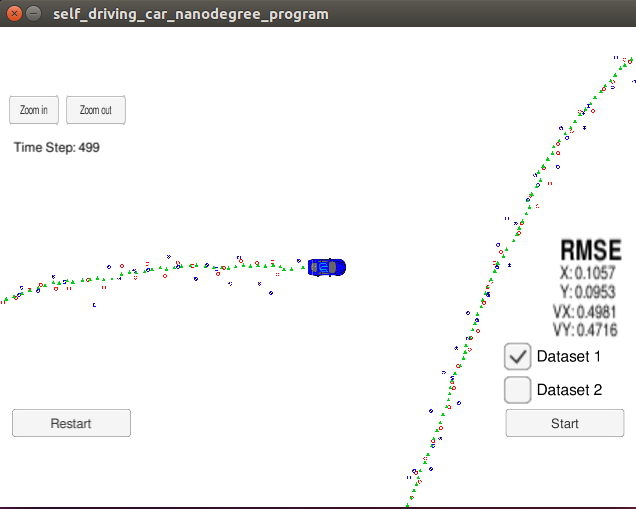
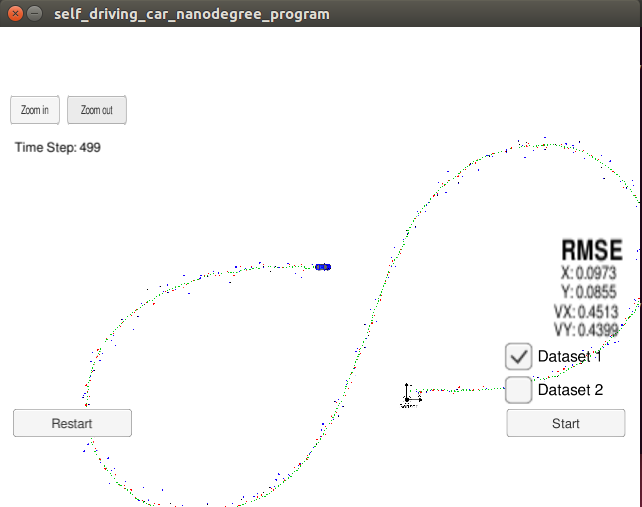
second commit

diff --git a/src/kalman_filter.cpp b/src/kalman_filter.cpp
@@ -1,4 +1,5 @@
 #include "kalman_filter.h"
+#define PI 3.1415926
 
 using Eigen::MatrixXd;
 using Eigen::VectorXd;
@@ -20,66 +21,6 @@ void KalmanFilter::Init(VectorXd &x_in, MatrixXd &P_in, MatrixXd &F_in,
   Q_ = Q_in;
 }
 
-
-
-
-/**
-* Convert radar from polar to cartesian coordinates.
-*/
-VectorXd KalmanFilter::ConvertPolarToCartesian(const VectorXd& polarvalue){
-
-  VectorXd cartesian(4);
-
-  float polar_rho = polarvalue(0);
-  float polar_phi = polarvalue(1) * 180.0 /3.1415;
-  float polar_rhodot = polarvalue(2);
-  
-  float px = polar_rho * cos(polar_phi);
-  float py = polar_rho * sin(polar_phi);
-  float vx = polar_rhodot * cos(polar_phi);
-  float vy = polar_rhodot * sin(polar_phi);
-
-  cartesian << px, py, vx, vy;
-
-  return cartesian;
-
-
-}
-
-
-/**
-* Convert radar from cartesian to polar coordinates.
-*/
-VectorXd KalmanFilter::ConvertCartesianToPolar(const VectorXd& cartesianvalue){
-
-  VectorXd polar(3);
-  //polar = VectorXd(3);
-
-  polar << 0.0, 0.0, 0.0;
-
-  float px = cartesianvalue(0);
-  float py = cartesianvalue(1);
-  float vx = cartesianvalue(2);
-  float vy = cartesianvalue(3);
-
-  float polar_rho = sqrt(px * px + py * py);
-  float polar_phi = 0.0;
-  float polar_rhodot = 0.0;
-
-  if ((polar_rho != 0) && (px != 0)) {
-
-    polar_phi = atan2(py, px);
-    polar_rhodot = (px * vx + py * vy) / polar_rho;
-
-    polar << polar_rho, polar_phi, polar_rhodot;
-
-  }
-
-  return polar;
-}
-
-
-
 void KalmanFilter::Predict() {
   /**
   TODO:
@@ -98,9 +39,9 @@ void KalmanFilter::Update(const VectorXd &z) {
   VectorXd z_pred = H_ * x_;
   VectorXd y = z - z_pred;
   MatrixXd Ht = H_.transpose();
-  MatrixXd S = H_ * P_ * Ht + R_;
-  MatrixXd Si = S.inverse();
   MatrixXd PHt = P_ * Ht;
+  MatrixXd S = H_ * PHt + R_;
+  MatrixXd Si = S.inverse();
   MatrixXd K = PHt * Si;
 
   //new estimate
@@ -115,20 +56,43 @@ void KalmanFilter::UpdateEKF(const VectorXd &z) {
   TODO:
     * update the state by using Extended Kalman Filter equations
   */
-  if ((abs(x_[0]) > 0.8) && (abs(x_[1]) > 0.8)) {
 
-    VectorXd z_pred = KalmanFilter::ConvertCartesianToPolar(x_);
-    VectorXd y = z - z_pred;
-    MatrixXd Ht = H_.transpose();
-    MatrixXd S = H_ * P_ * Ht + R_;
-    MatrixXd Si = S.inverse();
-    MatrixXd PHt = P_ * Ht;
-    MatrixXd K = PHt * Si;
+  float px = x_(0);
+  float py = x_(1);
+  float vx = x_(2);
+  float vy = x_(3);
+    
+  VectorXd z_pred = VectorXd(3);
+  z_pred(0) = sqrt(px * px + py * py);
 
-    //new estimate
-    x_ = x_ + (K * y);
-    long x_size = x_.size();
-    MatrixXd I = MatrixXd::Identity(x_size, x_size);
-    P_ = (I - K * H_) * P_;
+  if ((z_pred(0) != 0) && (px != 0)) {
+
+    z_pred(1) = atan(py / px);
+    z_pred(2) = (px * vx + py * vy) / z_pred(0);
+
+    while(z_pred(1) - z(1) > PI/2){
+      z_pred(1) = z_pred(1) - PI;
+    }
+     
+    while(z(1) - z_pred(1) >  PI/2){
+        z_pred(1) = z_pred(1) + PI;
+    }
+
+
+  }else{
+    return;
   }
+
+  VectorXd y = z - z_pred;
+  MatrixXd Ht = H_.transpose();
+  MatrixXd PHt = P_ * Ht;
+  MatrixXd S = H_ * PHt + R_;
+  MatrixXd Si = S.inverse();
+  MatrixXd K = PHt * Si;
+
+  //new estimate
+  x_ = x_ + (K * y);
+  long x_size = x_.size();
+  MatrixXd I = MatrixXd::Identity(x_size, x_size);
+  P_ = (I - K * H_) * P_;
 }

diff --git a/src/FusionEKF.cpp b/src/FusionEKF.cpp
@@ -2,6 +2,7 @@
 #include "tools.h"
 #include "Eigen/Dense"
 #include <iostream>
+#define PI 3.1415926
 
 using namespace std;
 using Eigen::MatrixXd;
@@ -46,7 +47,7 @@ FusionEKF::FusionEKF() {
            0, 0, 0, 0;
 
   noise_ax = 9;
-  noise_ay = 5;
+  noise_ay = 9;
 
 
 }
@@ -98,7 +99,19 @@ void FusionEKF::ProcessMeasurement(const MeasurementPackage &measurement_pack) {
       /**
       Convert radar from polar to cartesian coordinates and initialize state.
       */
-      ekf_.x_ = ekf_.ConvertPolarToCartesian(measurement_pack.raw_measurements_);
+
+      float ro = measurement_pack.raw_measurements_(0);
+      float theta = measurement_pack.raw_measurements_(1) * 180.0 / PI;
+      float ro_dot = measurement_pack.raw_measurements_(2);
+    
+      float px = ro * cos(theta);
+      float py = ro * sin(theta);
+      float vx = ro_dot * cos(theta);
+      float vy = ro_dot * sin(theta);
+
+      ekf_.x_ << px, py, vx, vy;
+
+
     }
     else if (measurement_pack.sensor_type_ == MeasurementPackage::LASER) {
       /**

diff --git a/src/kalman_filter.h b/src/kalman_filter.h
@@ -45,18 +45,6 @@ public:
   void Init(Eigen::VectorXd &x_in, Eigen::MatrixXd &P_in, Eigen::MatrixXd &F_in,
       Eigen::MatrixXd &H_in, Eigen::MatrixXd &R_in, Eigen::MatrixXd &Q_in);
 
-
-  /**
-  * Convert radar from polar to cartesian coordinates.
-  */
-  Eigen::VectorXd ConvertPolarToCartesian(const Eigen::VectorXd& polarvalue);
-
-  /**
-  * Convert radar from cartesian to polar coordinates.
-  */
-  Eigen::VectorXd ConvertCartesianToPolar(const Eigen::VectorXd& cartesianvalue);
-
-
   /**
    * Prediction Predicts the state and the state covariance
    * using the process model

diff --git a/README.md b/README.md
@@ -28,7 +28,7 @@ I compile project by following instructions:
 5. ./ExtendedKF
 
 #### 2.px, py, vx, vy output coordinates must have an RMSE <= [.11, .11, 0.52, 0.52] when using the file: "obj_pose-laser-radar-synthetic-input.txt" which is the same data file the simulator uses for Dataset 1.
-My RMSE is [.1057, .0953, 0.4981, 0.4716], here is a screenshot:
+My RMSE is [.0973, .0855, 0.4513, 0.4399], here is a screenshot:
 <div class="test">
 <img src="Docs/RMSE.png" width="600" />
 </div>
